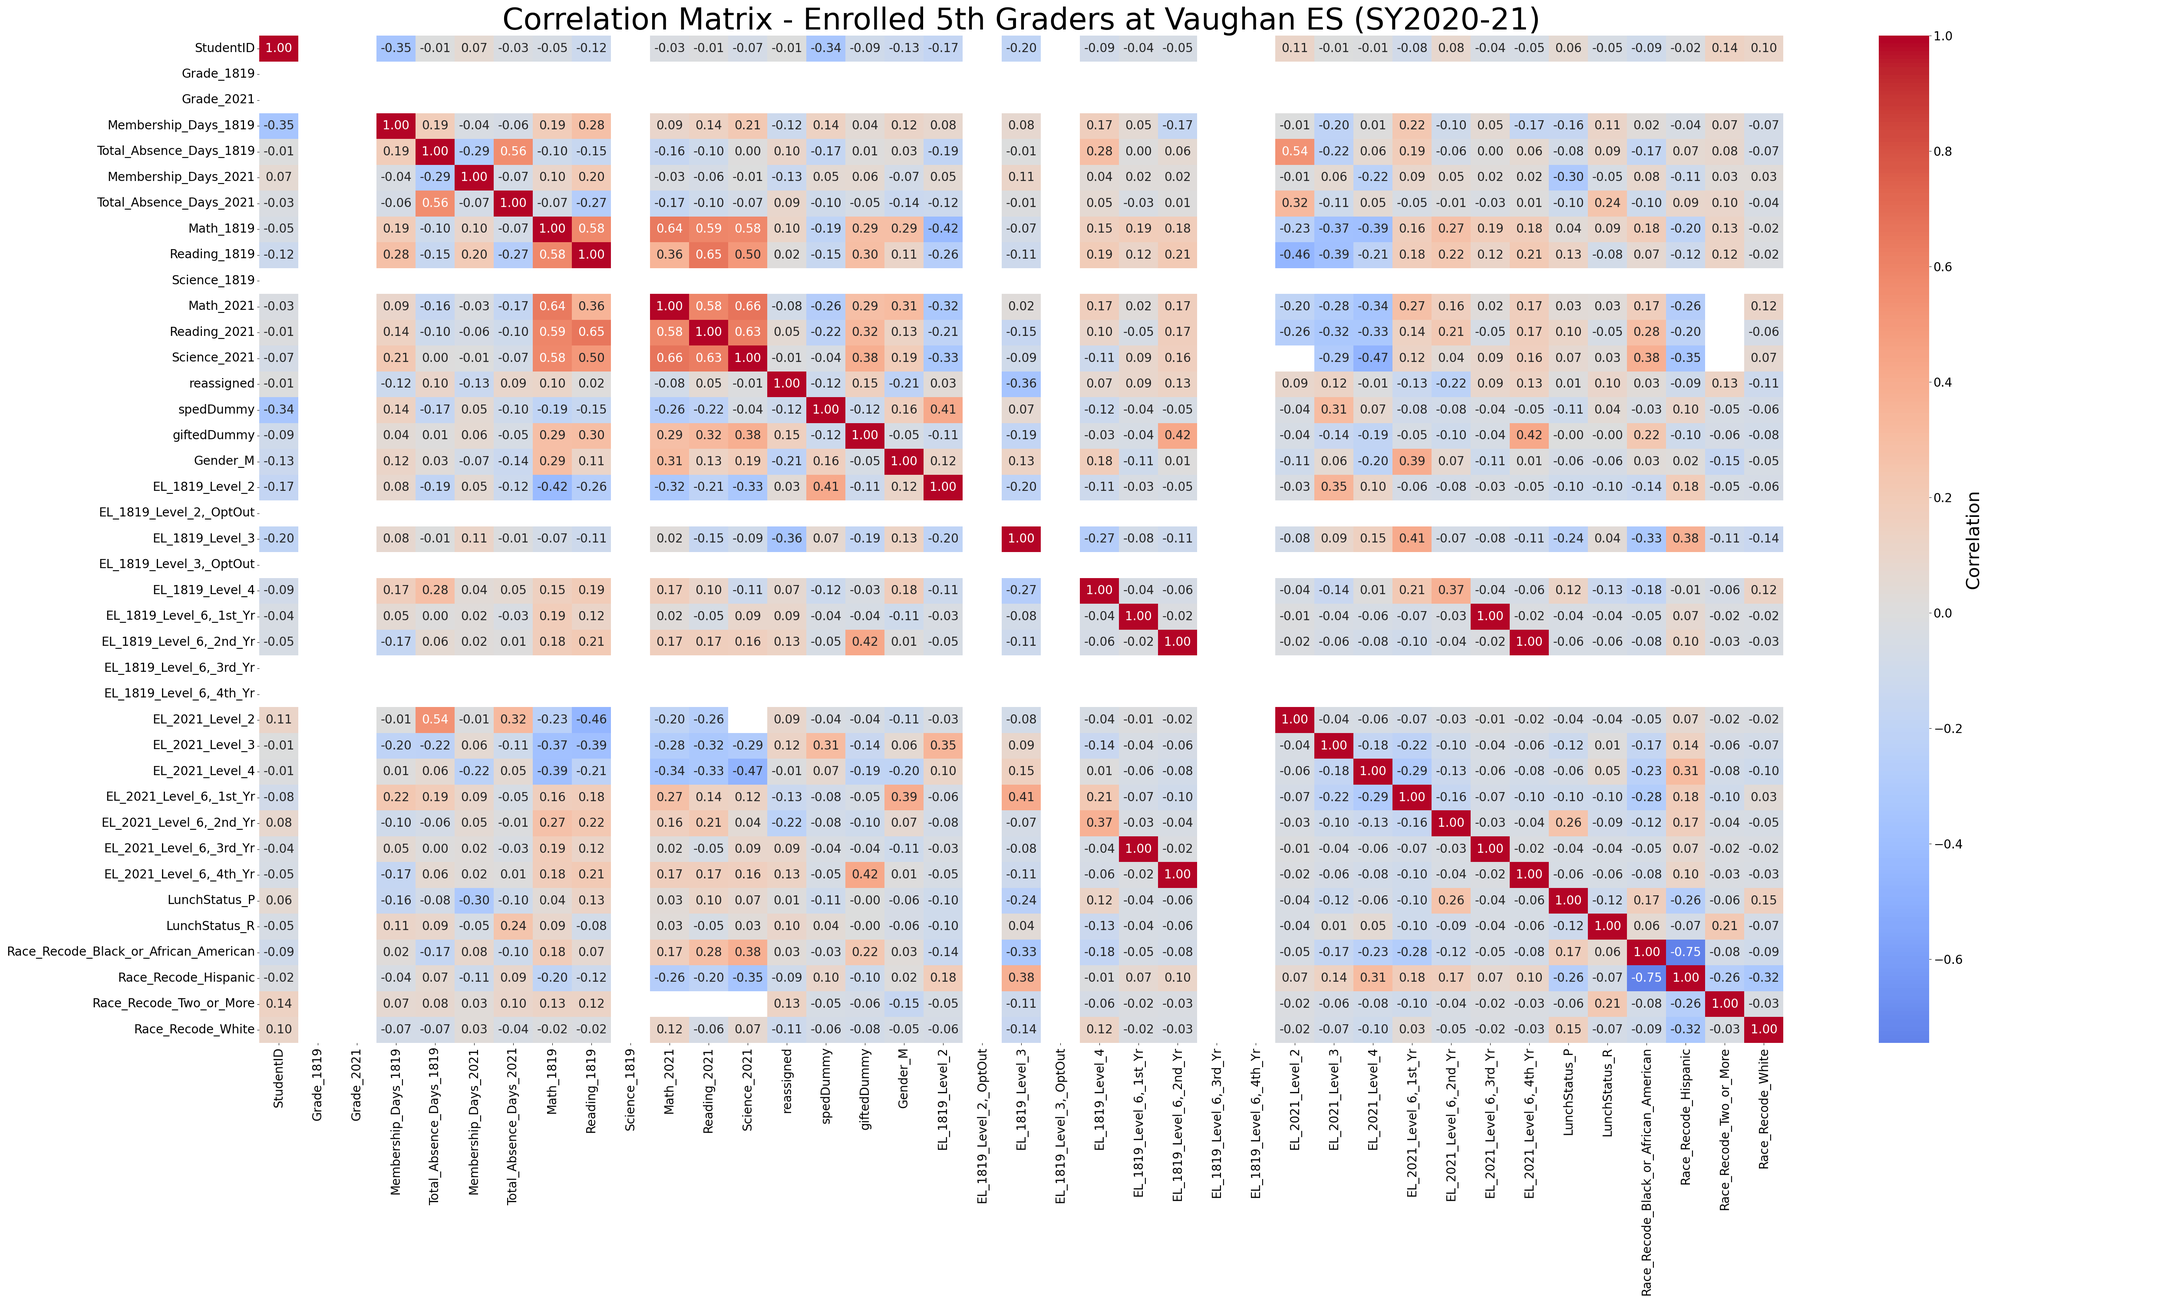
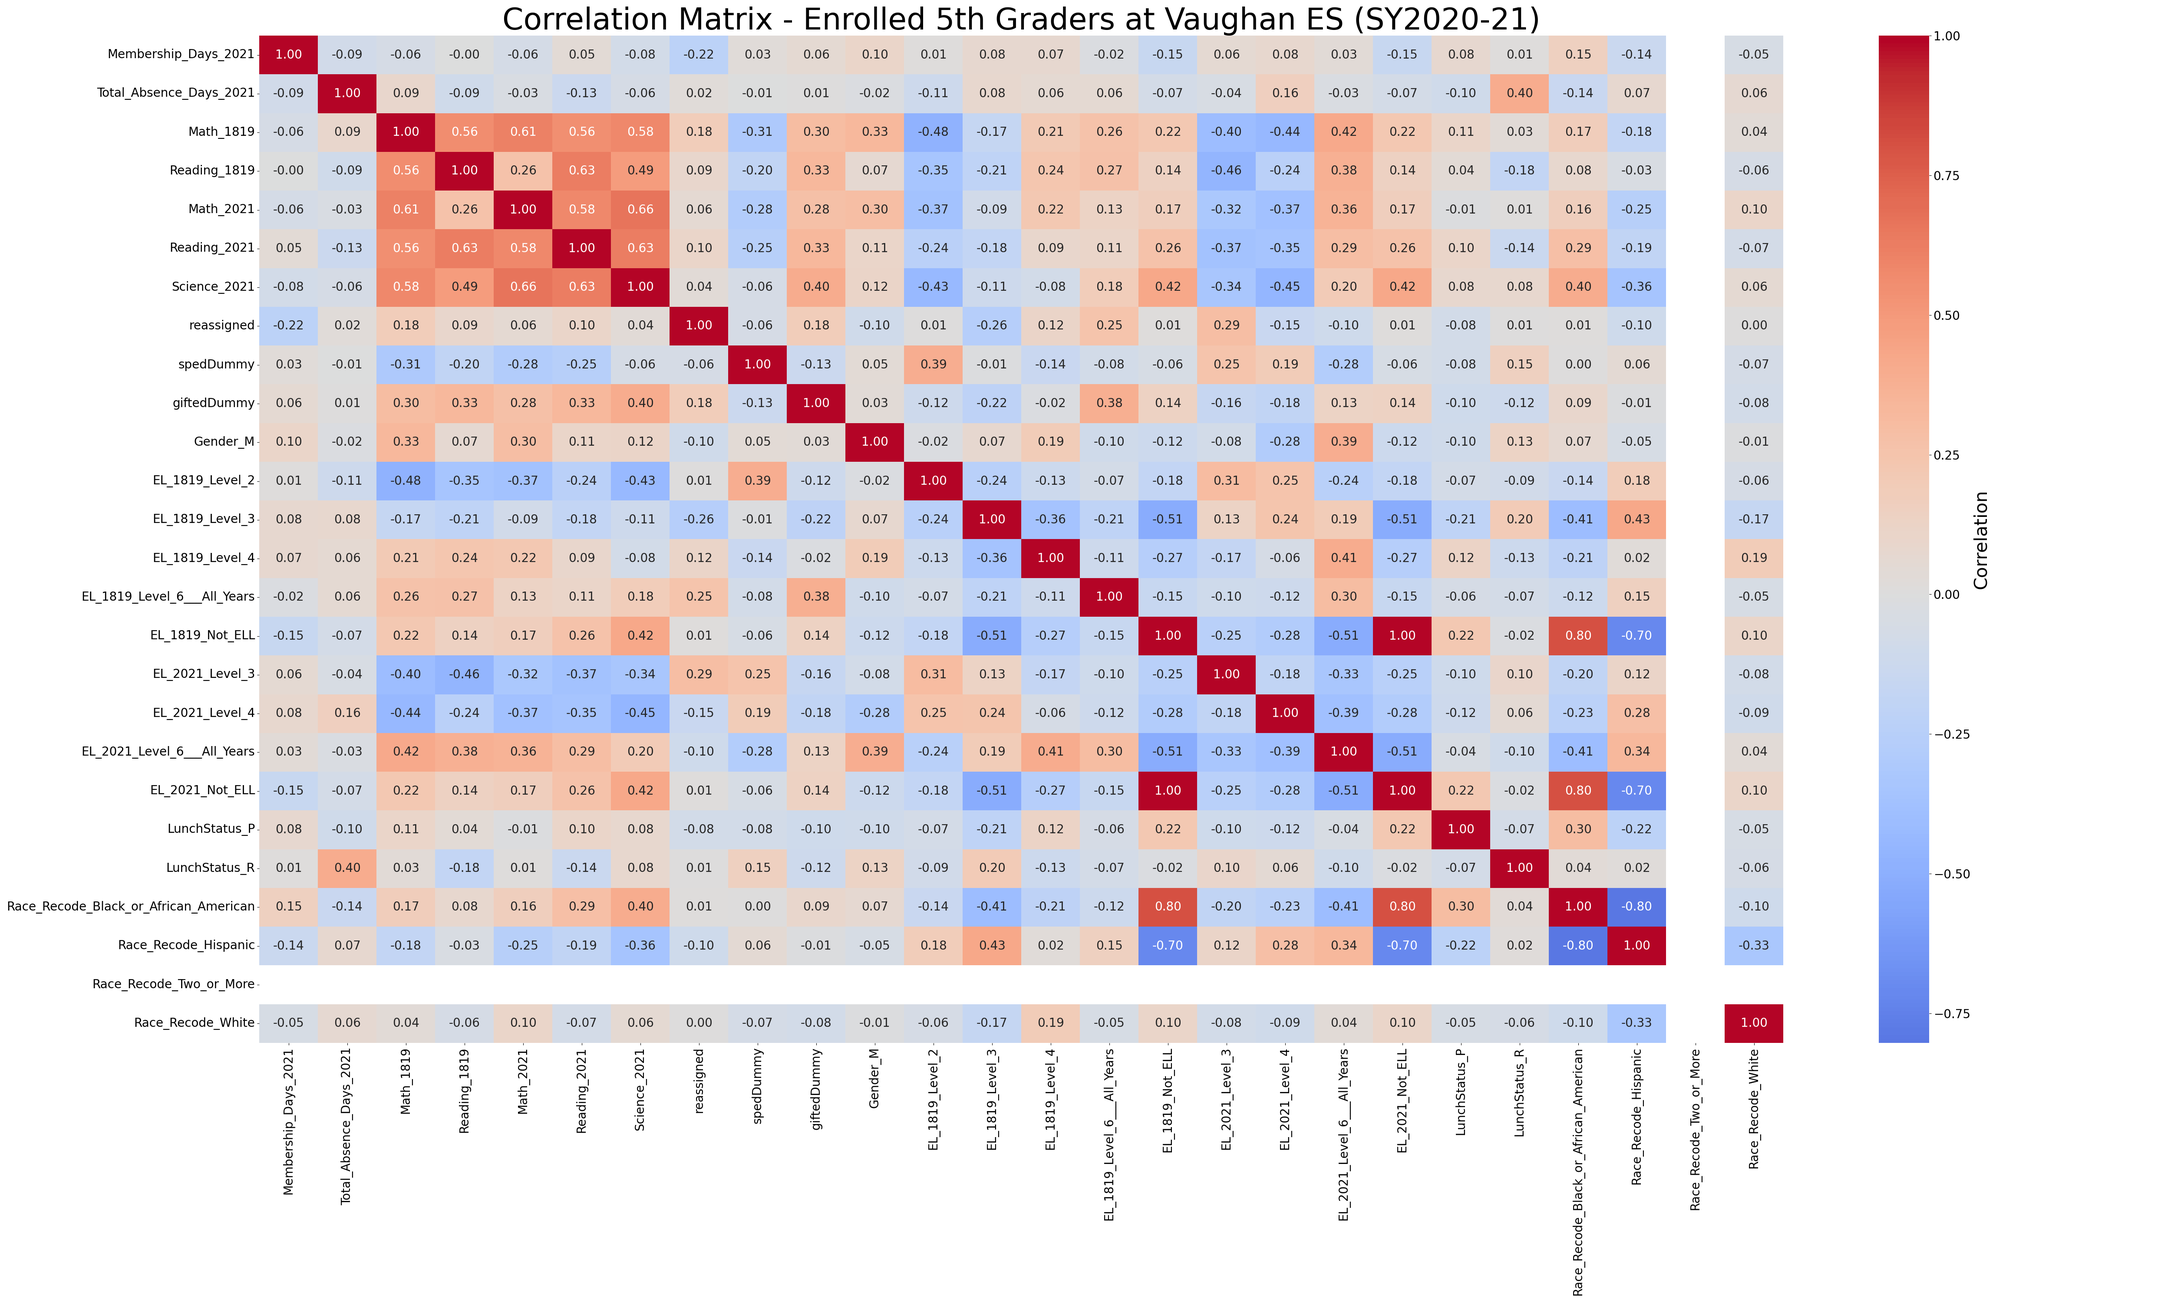
Add Linear Mixed Effects Model script and update PyCharm config
This commit does several things:

1. It adds the `Linear Mixed Effects Model.py` script. This script loads the data from csv file, generates a correlation matrix, performs various operations to create a model, and performs a likelihood ratio test for the subsets of the data.

2. Several configuration related files are added to `.idea/` folder. These include settings for PyCharm project (.iml, modules.xml, misc.xml), a new gitignore file for PyCharm settings, version control system mapping (vcs.xml) and an inspection profile (profiles_settings.xml)

3. Changed the column name from '2021 _Math' to 'Math_2021' to comply with Python's syntax rules for variable names. This resolves the SyntaxError that occurred when parsing the formula in the statsmodels regression function. The column name was also updated everywhere it was used in the code.

4. Has functional code to make a single, linear-mixed effects model with AIC.
5. Finalized code with automated model fitting

diff --git a/Linear Mixed Effects Model.py b/Linear Mixed Effects Model.py
@@ -10,6 +10,9 @@ from statsmodels.stats.outliers_influence import variance_inflation_factor
 import statsmodels.api as sm
 from scipy.stats import chi2
 import numpy as np
+from collections.abc import Iterable
+from patsy import dmatrix
+import pickle
 
 # === LOAD CSV AND GENERATE FEATURES FOR USER SETTINGS ===
 csv_path = r'C:\Users\cartlimr\OneDrive - Prince William County Public Schools\Vaughan Elementary Case Study - 2025\Data from Christina\Second Pull\Vaughn Query_Student Dataset_20250530.csv'  # Replace with your file
@@ -22,32 +25,74 @@ df['spedDummy'] = np.where(df['SPED'] == 'Y', 1, 0)
 # Generate dummy variable for Gifted
 df['giftedDummy'] = np.where(df['Gifted Recode'] == 'Y', 1, 0)
 
-# === ONE-HOT ENCODING FOR CATEGORICAL VARIABLES ===
-#categorical_features = ['Gender', '1819 EL', '2021 EL', 'LunchStatus', 'Race Recode', 'HomeLanguage']
-categorical_features = ['Gender', 'EL_1819', 'EL_2021', 'LunchStatus', 'Race Recode']
-df = pd.get_dummies(df, columns=categorical_features, drop_first=True)
-
-
-# === DATASET CLEANSING ===
+# === DATASET CLEANING ===
 # Replace all spaces in column names with underscores
 df.columns = df.columns.str.replace(' ', '_')
+# Replace NaN values in 'EL_1819' with 'Not ELL'
+df['EL_1819'] = df['EL_1819'].fillna('Not ELL')
+# Replace NaN values in 'EL_2021' with 'Not ELL'
+df['EL_2021'] = df['EL_2021'].fillna('Not ELL')
+
 # Drop students not enrolled in 2021
 df = df.dropna(subset=['School_2021'])
-# Select only 3rd graders from 2018-19
-df = df[(df['Grade_1819'] == 3)]
+
+# === Study Subset ===
+# Select grade criteria from 'Grade_1819'
+df = df[df['Grade_1819'].isin([3])]
+
 # Select only Vaughan ES students
 df = df[df['School_2021'] == 'Vaughan ES']
+# Reclassify various Level 6 categories in 'EL_1819' into only 'Level 6'
+df['EL_1819'] = df['EL_1819'].replace(['Level 6- 1st Yr', 'Level 6- 2nd Yr', 'Level 6- 3rd Yr', 'Level 6- 4th Yr'], 'Level 6 - All Years')
+# Reclassify various Level 6 categories in 'EL_2021' into only 'Level 6'
+df['EL_2021'] = df['EL_2021'].replace(['Level 6- 1st Yr', 'Level 6- 2nd Yr', 'Level 6- 3rd Yr', 'Level 6- 4th Yr'], 'Level 6 - All Years')
 
-
+# === ONE-HOT ENCODING FOR CATEGORICAL VARIABLES ===
+#categorical_features = ['Gender', '1819 EL', '2021 EL', 'LunchStatus', 'Race Recode', 'HomeLanguage']
+categorical_features = ['Gender', 'EL_1819', 'EL_2021', 'LunchStatus', 'Race_Recode']
+df = pd.get_dummies(df, columns=categorical_features, drop_first=True)
 
 # === USER SETTINGS ===
 outcome_var = 'Math_2021'  # Dependent variable name
 group_var = 'school_classroom'  # Random effects group
 subset_col = 'reassigned'  # Column indicating subset group (e.g., 1 = reassigned, 0 = not)
-exclude_cols = [outcome_var, group_var, subset_col, categorical_features, 'School_1819', 'School_2021',
+exclude_cols = [outcome_var, group_var, subset_col, categorical_features, 'StudentID', 'LastName', 'FirstName', 'School_1819', 'School_2021',
        'Teacher_1819', 'Grade_1819', 'Teacher_2021', 'Grade_2021', 'SPED',
-       'Gifted_Recode', 'HomeLanguage']  # Exclude from explanatory vars
+       'Gifted_Recode', 'HomeLanguage', 'Science_1819',
+                'Membership_Days_1819', 'Total_Absence_Days_1819', 'Per_Attendance_1819',
+                 'EL_1819_Level_2', 'EL_1819_Level_3', 'EL_1819_Level_4', 'EL_1819_Level_6___All_Years',
+                'EL_1819_Not_ELL']  # Exclude from explanatory vars
 
+# Create function for nested list within the list of exclude_cols
+def flatten_exclude_cols(exclude_cols):
+    flat_list = []
+    for item in exclude_cols:
+        if isinstance(item, Iterable) and not isinstance(item, str):
+            flat_list.extend(item)
+        else:
+            flat_list.append(item)
+    return flat_list
+
+# Example usage:
+exclude_cols = flatten_exclude_cols(exclude_cols)
+
+# Manipulate dataframe for modeling - drop fields where all NANs or containing datafields not needed
+df = df.drop(columns=['StudentID', 'LastName', 'FirstName', 'School_1819', 'School_2021',
+       'Grade_1819', 'Teacher_1819', 'Teacher_2021', 'Grade_2021', 'HomeLanguage', 'SPED', 'Gifted_Recode',
+                      'Science_1819', 'Per_Attendance_1819', 'Membership_Days_1819', 'Total_Absence_Days_1819'])
+
+# === DATASET CLEANING ===
+# Replace all spaces in column names with underscores
+df.columns = df.columns.str.replace(' ', '_')
+df.columns = df.columns.str.replace('-', '_')
+
+# Drop missing data
+df = df.dropna()
+# Reset index
+df = df.reset_index(drop=True)
+# Identify missing data
+missing_data = df.isnull().sum()
+print(missing_data)
 
 # === CREATE SUBSETS ===
 subset1 = df[df[subset_col] == 0]  # Not reassigned
@@ -69,63 +114,221 @@ plt.yticks(fontsize=20)
 plt.title('Correlation Matrix - Enrolled 5th Graders at Vaughan ES (SY2020-21)', fontsize=50)
 plt.tight_layout()
 # Save the plot as an image file
-plt.savefig("plot.png")
-
+plt.savefig("correlation_matrix_vaughan_5th_graders.png")
 
 # === MODEL COMBINATIONS ===
 explanatory_vars = [col for col in df.columns if col not in exclude_cols and pd.api.types.is_numeric_dtype(df[col])]
 
-# subset only first 3 explanatory variables from explanatory_vars
-#explanatory_vars = explanatory_vars[:3]
-
-
 results = []
+print(f"Number of explanatory variables considered for model: {len(explanatory_vars)}")
+
+# === LINEAR MIXED EFFECTS MODELING ===
+# Calculate Marginal and Conditional R-squared
+def calculate_r_squared(result):
+    # Variance of fixed effects
+    var_fixed = result.fittedvalues.var()
+
+    # Variance of random effects
+    random_effects = result.random_effects.values()
+    var_random = pd.Series([re.var() for re in random_effects]).sum()
+
+    # Residual variance
+    var_residual = result.resid.var()
+
+    # Marginal R-squared
+    marginal_r2 = var_fixed / (var_fixed + var_random + var_residual)
+
+    # Conditional R-squared
+    conditional_r2 = (var_fixed + var_random) / (var_fixed + var_random + var_residual)
+
+    return marginal_r2, conditional_r2
+
+# Calculate total number of combinations
+total_combos = sum(1 for i in range(1, len(explanatory_vars) + 1) for _ in itertools.combinations(explanatory_vars, i))
+tested_combos = 0
 
 for i in range(1, len(explanatory_vars) + 1):
     for combo in itertools.combinations(explanatory_vars, i):
+        tested_combos += 1
+        percent_complete = (tested_combos / total_combos) * 100
+        print(f"[{percent_complete:.2f}%] Testing combo: {combo}")
+
         fixed_formula = outcome_var + " ~ " + " + ".join(combo)
+        print(f"Fixed formula: {fixed_formula}")
         try:
             model = smf.mixedlm(fixed_formula, data=df, groups=df[group_var])
-            result = model.fit()
+            result = model.fit(reml=False)
+            marginal_r2, conditional_r2 = calculate_r_squared(result)
+            print(f"Marginal R-squared (percent of variance explained by fixed effects): {marginal_r2:.4f}")
+            print(
+                f"Conditional R-squared (Marginal R-square variance explained plus variance explained by random effects): {conditional_r2:.4f}")
+            print(result.aic)
             results.append({
                 'variables': combo,
-                'aic': result.aic
+                'aic': result.aic,
+                'marginal_r2': marginal_r2,
+                'conditional_r2': conditional_r2
             })
         except Exception as e:
             print(f"Skipping combo {combo} due to error: {e}")
 
 
+def is_picklable(obj):
+    try:
+        pickle.dumps(obj)
+        return True
+    except Exception:
+        return False
 
-# === RANKED OUTPUT ===
-results = sorted(results, key=lambda x: x['aic'])
+def autosave(filename='session.pkl'):
+    exclude = {'__builtins__', '__name__', '__file__', '__doc__', '__package__'}
+    session = {k: v for k, v in globals().items()
+               if k not in exclude and not k.startswith('__') and is_picklable(v)}
+    with open(filename, 'wb') as f:
+        pickle.dump(session, f)
 
-print("\n=== Top Models by AIC ===")
-for i, r in enumerate(results[:10]):  # Show top 10
-    print(f"\nModel {i + 1}: AIC: {r['aic']:.2f} | Variables: {r['variables']}")
 
-    # === MULTICOLLINEARITY CHECK: VIF ===
-    # VIF (Variance Inflation Factor) shows how much a variable is inflated due to multicollinearity.
-    # Interpretation guide:
-    # - VIF ≈ 1: No multicollinearity
-    # - VIF 1–5: Low to moderate multicollinearity (generally acceptable)
-    # - VIF 5–10: Moderate to high (review carefully)
-    # - VIF > 10: High multicollinearity — consider dropping or combining variables
 
-    X = df[list(r['variables'])].dropna()
-    X = sm.add_constant(X)
 
+
+# === Optional function to test a single configuration of the linear random effects model ===
+
+# Not written with parameters for easy manipulation. Must change all hard coded fields. Opportunity to enhance in future
+def non_automated_lme():
+    # Define your variables
+    outcome_var = "Math_2021"
+
+    explanatory_vars = ["Reading_1819", "giftedDummy", "Math_1819", "Reading_2021", "Science_2021", "spedDummy", "Gender_M",
+                        "EL_2021_Level_3", "EL_2021_Level_4", "EL_2021_Level_6___All_Years",
+                        "Race_Recode_Black_or_African_American", "Race_Recode_Hispanic", "Race_Recode_White",
+                        "Membership_Days_2021", "Total_Absence_Days_2021"]  # 0.7269
+
+    #explanatory_vars = ["Math_1819"]
+    group_var = "school_classroom"  # Replace with your actual grouping variable name
+
+    # Build the formula
+    fixed_formula = outcome_var + " ~ " + " + ".join(explanatory_vars)
+    print(f"Fixed formula: {fixed_formula}")
+
+    # Fit the model
+    try:
+        model = smf.mixedlm(fixed_formula, data=df, groups=df[group_var])
+        result = model.fit(reml=False)
+        print("AIC:", result.aic)
+    except Exception as e:
+        print(f"Model fitting failed due to error: {e}")
+
+    print (result.summary())
+
+    print(df[group_var].value_counts())
+    print(df[group_var].nunique())
+
+    marginal_r2, conditional_r2 = calculate_r_squared(result)
+    print(f"Marginal R-squared (percent of variance explained by fixed effects): {marginal_r2:.4f}")
+    print(f"Conditional R-squared (Marginal R-square variance explained plus variance explained by random effects): {conditional_r2:.4f}")
+
+    # ==== VIF - Check for multicollinearity on non-autoamted model generated ====
+
+    # Build the formula for VIF calculation
+    formula = " + ".join(explanatory_vars)
+
+    # Create design matrix
+    X = dmatrix(formula, data=df, return_type='dataframe')
+
+    # Calculate VIF
     vif_data = pd.DataFrame()
     vif_data["Variable"] = X.columns
-    vif_data["VIF"] = [variance_inflation_factor(X.values, j) for j in range(X.shape[1])]
+    vif_data["VIF"] = [variance_inflation_factor(X.values, i) for i in range(X.shape[1])]
 
-    print("VIF:")
-    print(vif_data.to_string(index=False))
+    print(vif_data)
+
+
+# === BOXPLOT OF OUTCOME VARIABLE ===
+plt.figure(figsize=(10, 6))
+sns.boxplot(x=df[group_var], y=df[outcome_var])
+plt.title('Boxplots of Outcome Variable: Math2021 by Group Variable: Vaughan Elementary 5th Grade Classroom')
+plt.show()
+plt.savefig("boxplot_vaughan_5th_grade_classrooms_math2021.png")
+
+
+# === Optional function to test a single configuration of the linear fixed effects model (no group) ===
+
+# Not written with parameters for easy manipulation. Must change all hard coded fields. Opportunity to enhance in future
+
+def non_automated_lfe_model():
+    # Define your variables
+    outcome_var = "Math_2021"
+    #explanatory_vars = ["Reading_1819", "giftedDummy", "Math_1819", "spedDummy", "giftedDummy", "Gender_M",
+     #                   "EL_2021_Level_3", "EL_2021_Level_4", "EL_2021_Level_6___All_Years"]
+    explanatory_vars = ["Reading_1819", "giftedDummy", "Math_1819", "Reading_2021", "Science_2021", "spedDummy", "giftedDummy", "Gender_M",
+                        "EL_2021_Level_3", "EL_2021_Level_4", "EL_2021_Level_6___All_Years"]
+    #explanatory_vars = ["Math_1819"]
+
+    # Build the formula
+    fixed_formula = outcome_var + " ~ " + " + ".join(explanatory_vars)
+    print(f"Fixed formula: {fixed_formula}")
+
+    # Fit the model
+    try:
+        model = smf.ols(fixed_formula, data=df)
+        result = model.fit()
+        print("AIC:", result.aic)
+    except Exception as e:
+        print(f"Model fitting failed due to error: {e}")
+
+    # R-squared from the model
+    print("R-squared:", result.rsquared)
+    # Print model parameters
+    print(result.summary())
+
+def multicollinearity_check(ranker):
+    # === CHECK FOR MULTICOLLINEARITY OF TOP MODELS ===
+    print(f"\n=== Top Models by {ranker} ===")
+    for i, r in enumerate(results[:5]):  # Show top 5
+        print(f"\nModel {i + 1}: AIC: {r['aic']:.2f} | Variables: {r['variables']} | Marginal R^2: {r['marginal_r2']:.2f} | Conditional R^2: {r['conditional_r2']:.2f}")
+
+        # === MULTICOLLINEARITY CHECK: VIF ===
+        # VIF (Variance Inflation Factor) shows how much a variable is inflated due to multicollinearity.
+        # Interpretation guide:
+        # - VIF ≈ 1: No multicollinearity
+        # - VIF 1–5: Low to moderate multicollinearity (generally acceptable)
+        # - VIF 5–10: Moderate to high (review carefully)
+        # - VIF > 10: High multicollinearity — consider dropping or combining variables
+
+        X = df[list(r['variables'])].dropna()
+        X = sm.add_constant(X)
+        # Dummy variables stored as Boolean must be converted to 1 or 0, prior to calculating VIF.
+        X = X.astype(int)
+        vif_data = pd.DataFrame()
+        vif_data["Variable"] = X.columns
+        vif_data["VIF"] = [variance_inflation_factor(X.values, j) for j in range(X.shape[1])]
+        print("VIF:")
+        print(vif_data.to_string(index=False))
+
+
+
+# === RANKED OUTPUT ===
+# sort by AIC
+results = sorted(results, key=lambda x: x['aic'])
+# export results to csv
+result_df = pd.DataFrame(results)
+result_df.to_csv("model_results_aic_sorted.csv", index=False)
+# analyze VIFs for top ranked models by AIC
+multicollinearity_check('AIC')
+
+# sort by marginal r-squared
+results = sorted(results, key=lambda x: x['marginal_r2'], reverse=True)
+# export results to csv
+result_df = pd.DataFrame(results)
+result_df.to_csv("model_results_r2_sorted.csv", index=False)
+# analyze VIFs for top ranked models by marginal r-squared
+multicollinearity_check('Marginal r-squared')
 
 # === LIKELIHOOD RATIO TEST ===
 print("\n=== Likelihood Ratio Test: Subset Comparison ===")
 
-# Use the best variable combination
-best_vars = list(results[0]['variables'])
+# Use the best variable combination - set index from the order in the results list
+best_vars = list(results[2]['variables'])
 
 # 1. Combined Model with interaction terms
 interaction_terms = ' + '.join([f'{var}*{subset_col}' for var in best_vars])
@@ -133,7 +336,7 @@ combined_formula = f"{outcome_var} ~ {interaction_terms}"
 
 try:
     combined_model = smf.mixedlm(combined_formula, data=df, groups=df[group_var])
-    combined_result = combined_model.fit()
+    combined_result = combined_model.fit(reml=False)
     ll_combined = combined_result.llf
 except Exception as e:
     print(f"Error fitting combined model: {e}")
@@ -142,7 +345,7 @@ except Exception as e:
 # 2. Separate models for subset1 and subset2
 try:
     model1 = smf.mixedlm(f"{outcome_var} ~ {' + '.join(best_vars)}", data=subset1, groups=subset1[group_var])
-    result1 = model1.fit()
+    result1 = model1.fit(reml=False)
     ll1 = result1.llf
 except Exception as e:
     print(f"Error fitting model for subset 1: {e}")
@@ -150,7 +353,7 @@ except Exception as e:
 
 try:
     model2 = smf.mixedlm(f"{outcome_var} ~ {' + '.join(best_vars)}", data=subset2, groups=subset2[group_var])
-    result2 = model2.fit()
+    result2 = model2.fit(reml=False)
     ll2 = result2.llf
 except Exception as e:
     print(f"Error fitting model for subset 2: {e}")
@@ -173,3 +376,6 @@ if ll_combined is not None and ll1 is not None and ll2 is not None:
         print("→ Fail to reject null hypothesis: no significant difference between subsets.")
 else:
     print("Likelihood ratio test could not be completed due to model fitting errors.")
+
+# Save to hard drive the model, after running for large models.
+autosave()
